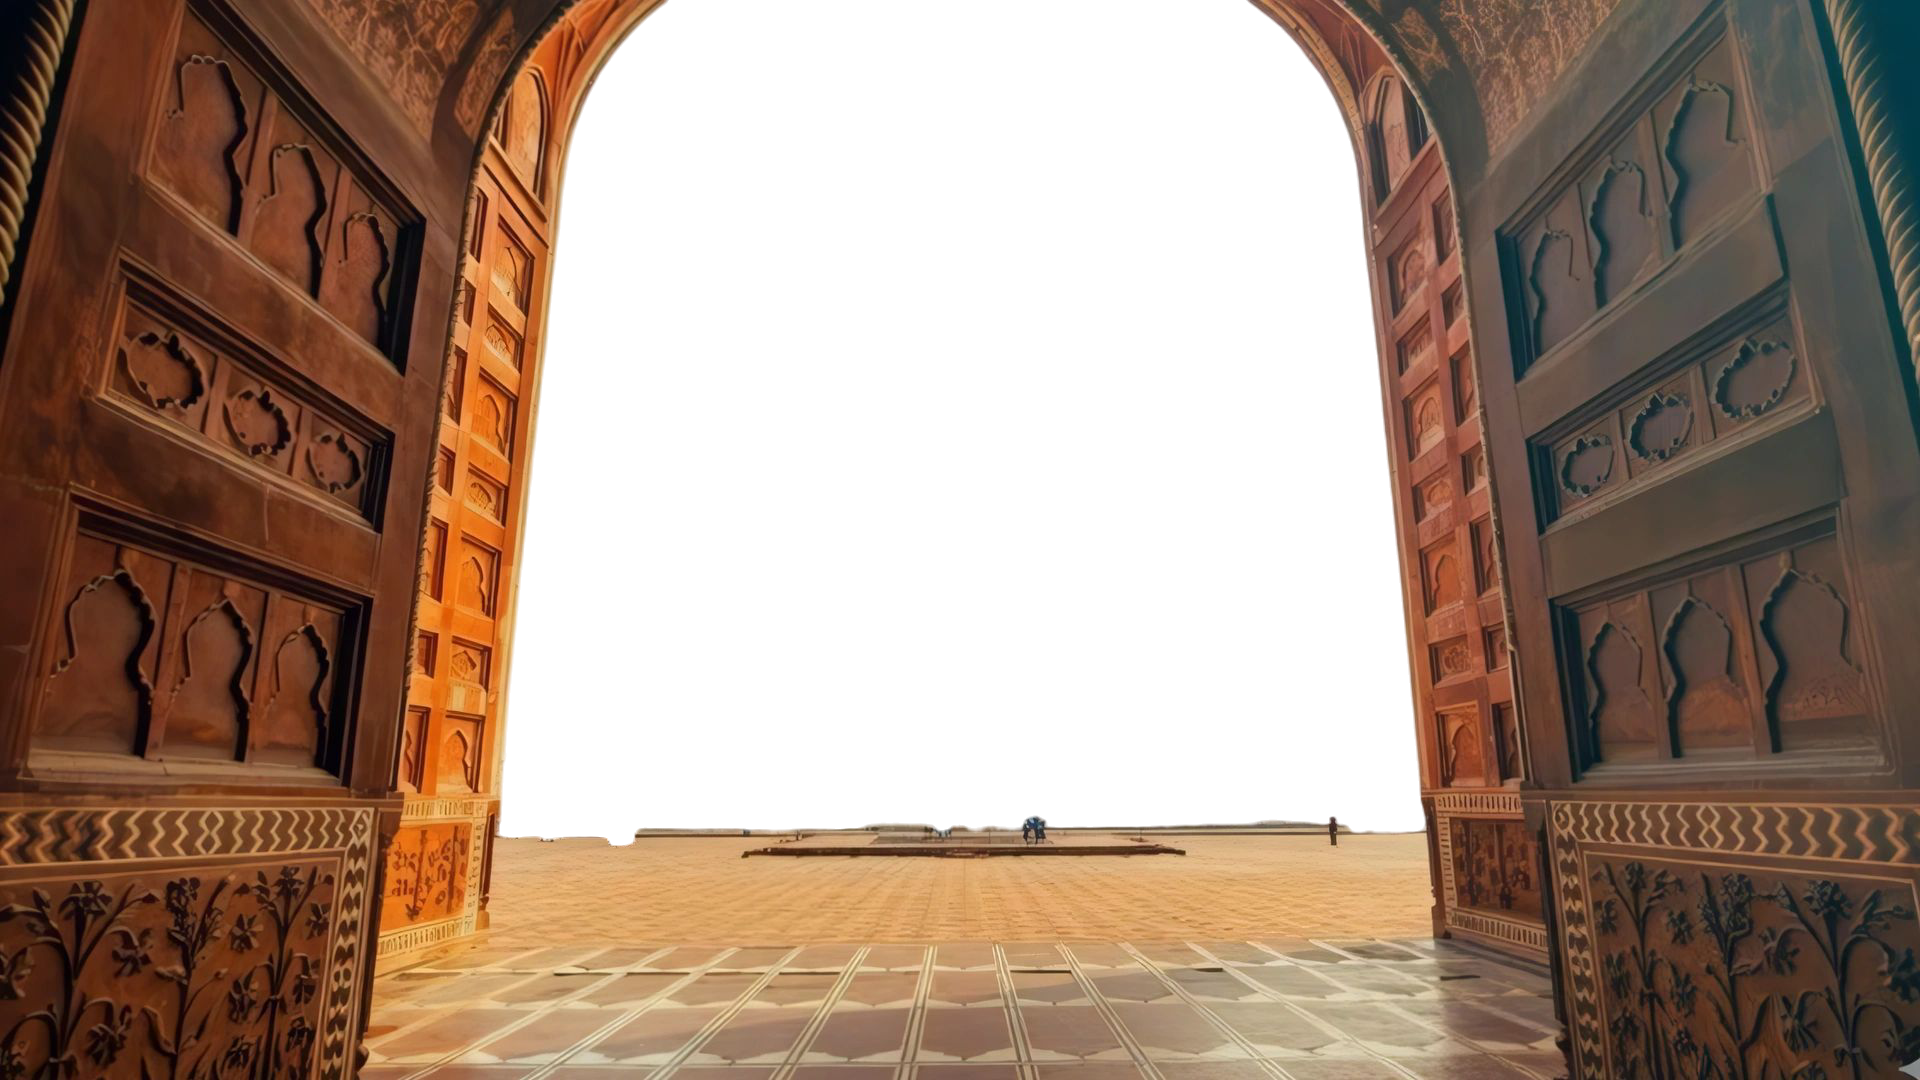
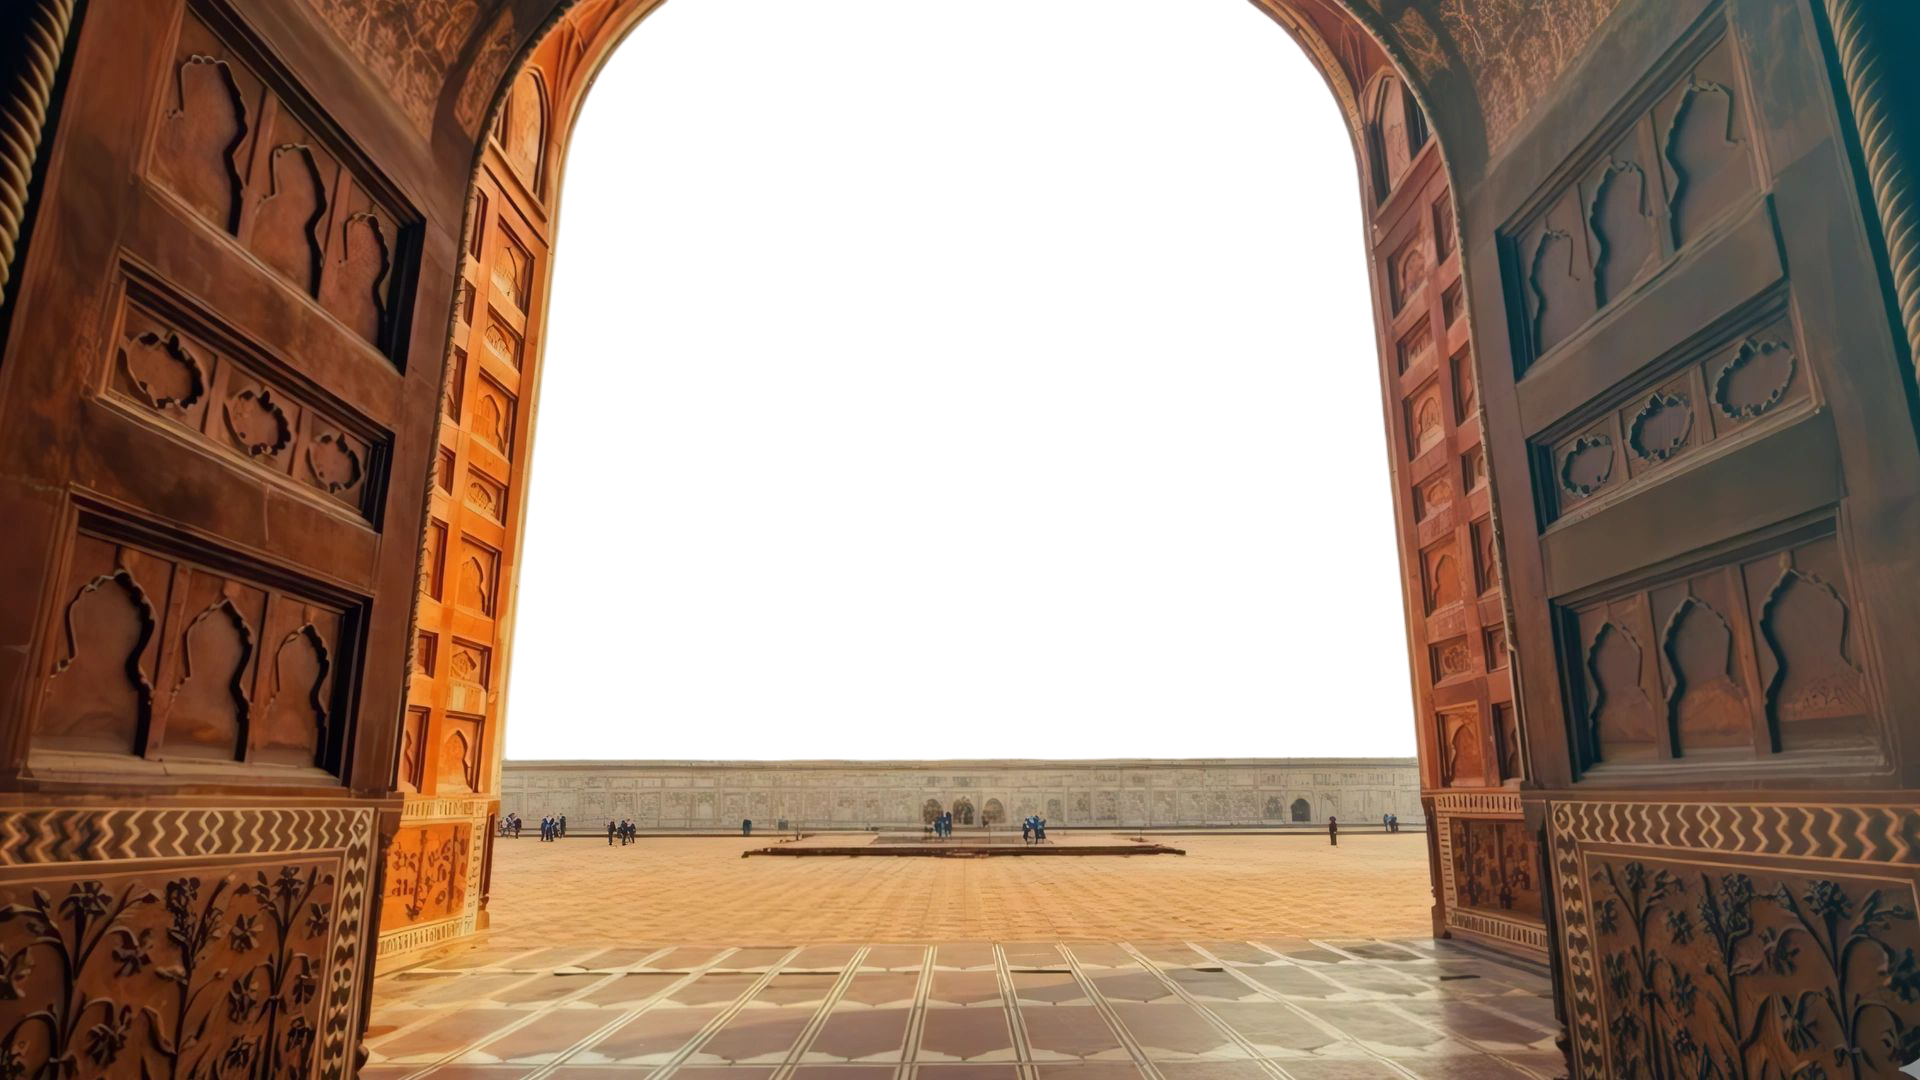
tajmahal

Changed region(s): [[0.25, 0.7028, 0.75, 0.7944]]

diff --git a/src/02.TAJMAHAL/Tajmahal.jsx b/src/02.TAJMAHAL/Tajmahal.jsx
@@ -1,7 +1,7 @@
 import React, { useRef, useEffect } from "react";
 import { gsap } from "gsap";
 import { ScrollTrigger } from "gsap/ScrollTrigger";
-import { useNavigate } from "react-router-dom"; // ✅ import for navigation
+import { useNavigate } from "react-router-dom";
 import TajMahalBg1 from "./TajMahalBg1.png";
 import TajMahalBg2 from "./TajMahalBg2.png";
 import TajMahalF from "./TajMahalF.png";
@@ -13,40 +13,117 @@ const Tajmahal = () => {
   const bg1Ref = useRef(null);
   const bg2Ref = useRef(null);
   const fgRef = useRef(null);
-  const navigate = useNavigate(); // ✅ hook
+  const navigate = useNavigate();
 
   useEffect(() => {
-    gsap.timeline({
-      scrollTrigger: {
-        trigger: containerRef.current,
-        start: "-90% top",
-        end: "top top",
-        scrub: true,
-        markers: true,
-      },
-    });
+    // ✅ Background 2 (sky comes down)
+    gsap.fromTo(
+      bg2Ref.current,
+      { y: -200 }, // starts slightly above
+      {
+        y: 0,
+        ease: "none",
+        scrollTrigger: {
+          trigger: containerRef.current,
+          start: "top bottom",
+          end: "top top",
+          scrub: true,
+        },
+      }
+    );
+
+    // ✅ Background 1 (comes down into place)
+    gsap.fromTo(
+      bg1Ref.current,
+      { y: -300 },
+      {
+        y: 0,
+        ease: "none",
+        scrollTrigger: {
+          trigger: containerRef.current,
+          start: "top bottom",
+          end: "top top",
+          scrub: true,
+        },
+      }
+    );
+
+    // ✅ Foreground (comes down into place)
+    gsap.fromTo(
+      fgRef.current,
+      { y: 150 },
+      {
+        y: 0,
+        ease: "none",
+        scrollTrigger: {
+          trigger: containerRef.current,
+          start: "top bottom",
+          end: "top top",
+          scrub: true,
+        },
+      }
+    );
+
+// ⬇ Exit Animation when scrolling out
+gsap.fromTo(
+  bg1Ref.current,
+  { y: 0 },      // 👈 it’s already at 0 after entry animation
+  {
+    y: -300,     // 👈 move it back up to the initial position
+    ease: "none",
+    scrollTrigger: {
+      trigger: containerRef.current,
+      start: "120% bottom",
+      end: "150% top",
+      scrub: true,
+    },
+  }
+);
+
+    // gsap.fromTo(
+    //   fgRef.current,
+    //   { y: 0 }, // 👈 it’s already at 0 after entry animation
+    //   {
+    //     y: 200, // 👈 move it back down to where it started
+    //     ease: "none",
+    //     scrollTrigger: {
+    //       trigger: containerRef.current,
+    //       start: "120% bottom",
+    //       end: "150% top",
+    //       scrub: true,
+    //       markers: true,
+    //     },
+    //   }
+    // );
+
   }, []);
+
 
   return (
     <div
       ref={containerRef}
       className="w-full z-50 h-screen bg-[#ccd7cf] overflow-hidden relative"
     >
-      <img
-        ref={bg1Ref}
-        className="absolute z-10 h-full w-full object-cover"
-        src={TajMahalBg1}
-        alt="bg1"
-      />
+      {/* Background 2 (sky) */}
       <img
         ref={bg2Ref}
-        className="absolute z-30 h-full w-full object-cover"
+        className="absolute h-full w-full object-cover"
         src={TajMahalBg2}
         alt="bg2"
       />
+
+      {/* Background 1 (middle building part) */}
       <img
-        // ref={fgRef}
+        ref={bg1Ref}
         className="absolute z-40 h-full w-full object-cover"
+        src={TajMahalBg1}
+        alt="bg1"
+      />
+
+      {/* Foreground (front details) */}
+      <img
+        ref={fgRef}
+        className="absolute z-30 h-full w-full object-cover"
         src={TajMahalF}
         alt="fg"
       />

diff --git a/src/App.jsx b/src/App.jsx
@@ -4,6 +4,7 @@ import Gwoc from './01.GWOC/Gwoc';
 import GwocCanvas from './01.GWOC/GwocCanvas';
 import Tajmahal from './02.TAJMAHAL/Tajmahal';
 import TajMahalCanvas from './02.TAJMAHAL/TajMahalCanvas';
+import Ctr from './03.CTR/Ctr';
 import Lenis from '@studio-freight/lenis';
 
 const App = () => {
@@ -31,6 +32,7 @@ const App = () => {
             <>
               <Gwoc />
               <Tajmahal />
+              <Ctr />
             </>
           }
         />

diff --git a/src/01.GWOC/Gwoc.jsx b/src/01.GWOC/Gwoc.jsx
@@ -51,7 +51,7 @@ const Gwoc = () => {
   };
 
   return (
-    <div ref={containerRef} className="w-full h-screen overflow-hidden relative">
+    <div ref={containerRef} className="w-full h-screen z-40 overflow-hidden relative">
       {/* Background */}
       <img
         className="w-full h-full object-cover absolute top-0 left-0 z-10 min-h-screen"

diff --git a/src/03.CTR/Ctr.jsx b/src/03.CTR/Ctr.jsx
@@ -1,0 +1,9 @@
+import React from 'react'
+
+const Ctr = () => {
+  return (
+    <div className='w-full h-screen'>Ctr</div>
+  )
+}
+
+export default Ctr
